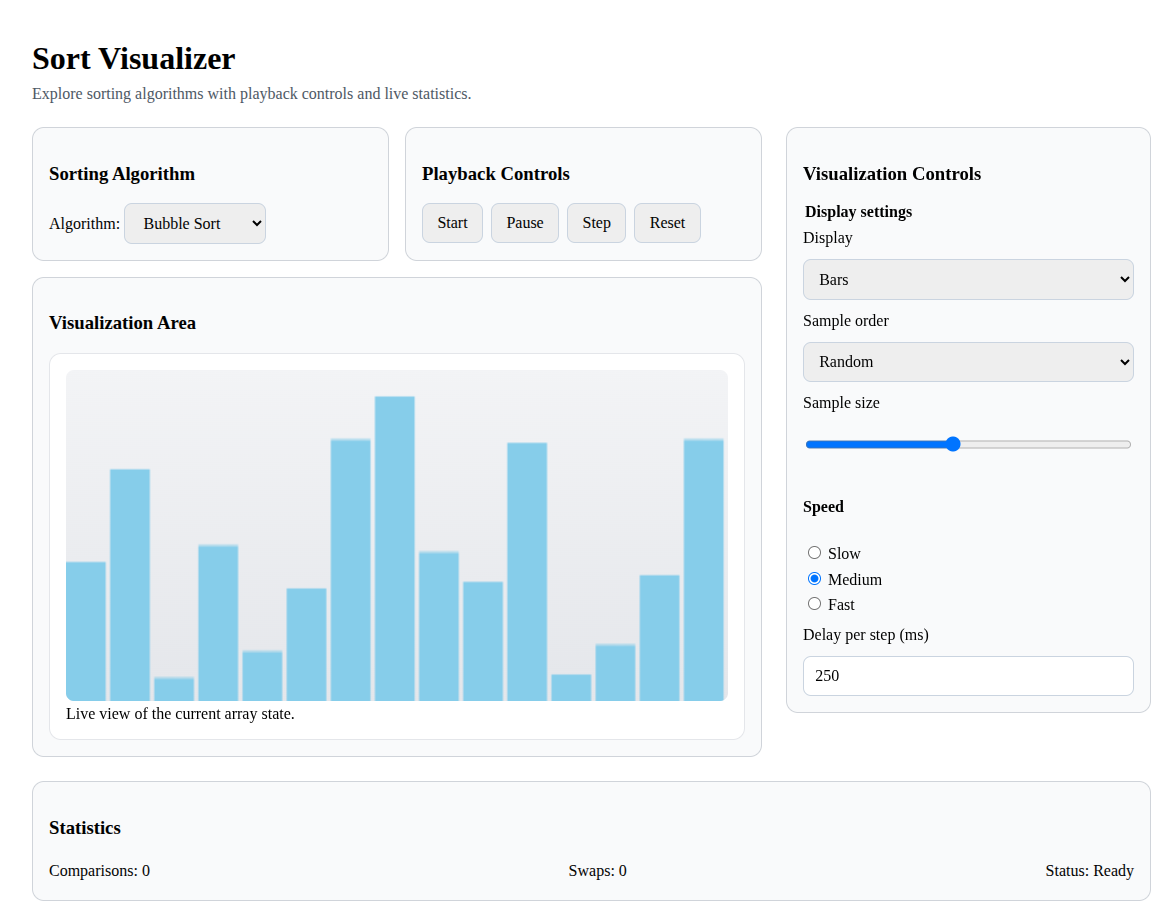
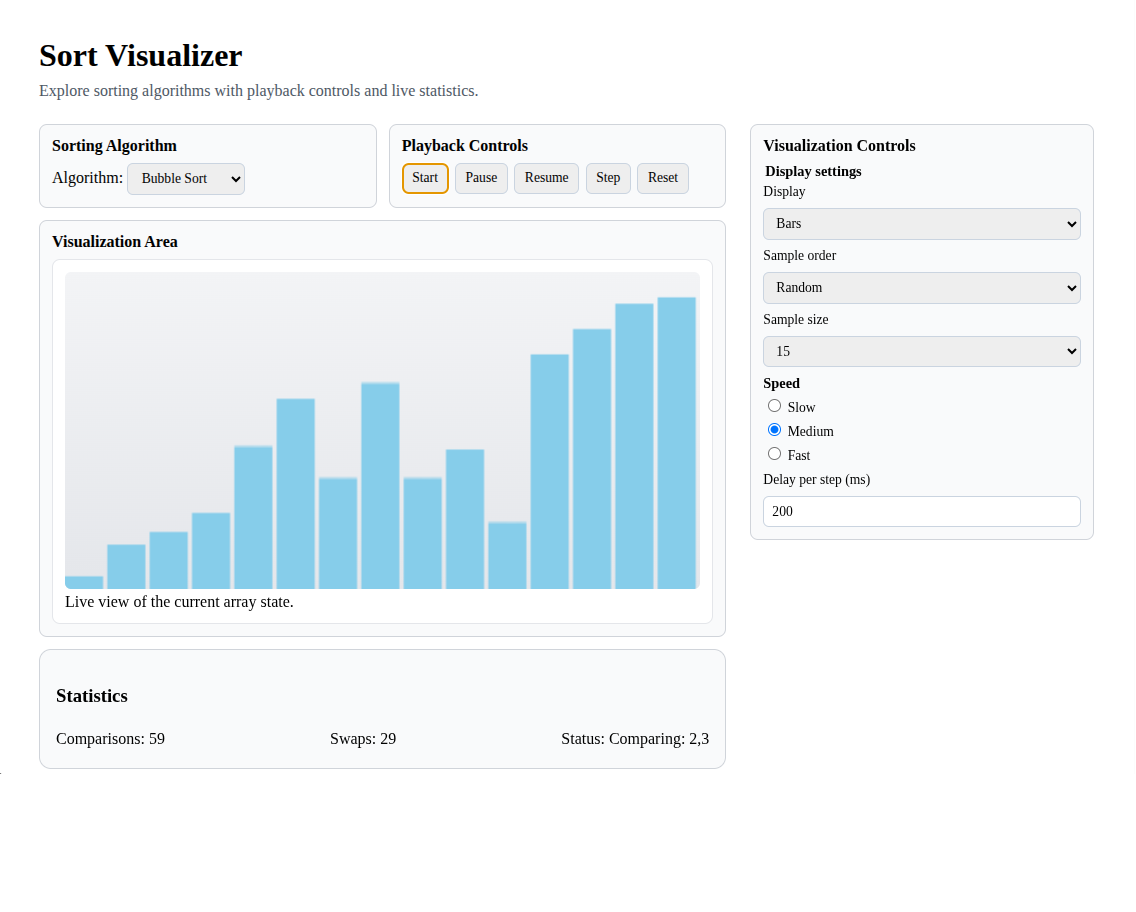
docs: updated README

diff --git a/src/views/Main.vue b/src/views/Main.vue
@@ -188,17 +188,16 @@ onMounted(() => {
     />
   </main>
 </template>
-
 <style scoped>
 .main-view {
   display: flex;
   flex-direction: column;
-  gap: 1rem;
+  gap: 0.75rem;
 }
 
 .controls-row {
   display: flex;
-  gap: 1rem;
+  gap: 0.75rem;
 }
 
 .controls-row .panel {
@@ -207,43 +206,43 @@ onMounted(() => {
 
 .panel {
   border: 1px solid #d1d5db;
-  border-radius: 12px;
-  padding: 1rem;
+  border-radius: 8px;
+  padding: 0.75rem;
   background: #f9fafb;
 }
 
-.panel h2 {
-  margin: 0 0 0.75rem;
-  font-size: 1.1rem;
+.panel h3 {
+  margin: 0 0 0.5rem;
+  font-size: 1rem;
 }
 
 .button-group {
   display: flex;
   flex-wrap: wrap;
-  gap: 0.5rem;
+  gap: 0.4rem;
 }
 
 button,
 select {
-  padding: 0.6rem 0.9rem;
+  padding: 0.4rem 0.6rem;
   border: 1px solid #cbd5e1;
-  border-radius: 8px;
+  border-radius: 6px;
   font: inherit;
+  font-size: 0.85rem;
 }
 
 .canvas-card {
   margin: 0;
   border: 1px solid #e5e7eb;
-  border-radius: 12px;
-  padding: 1rem;
+  border-radius: 8px;
+  padding: 0.75rem;
   background: #fff;
 }
 
 canvas {
   width: 100%;
-  min-height: 260px;
-  border-radius: 8px;
+  min-height: 200px;
+  border-radius: 6px;
   background: linear-gradient(180deg, #f3f4f6 0%, #e5e7eb 100%);
 }
 </style>
- 

diff --git a/src/views/VisualizationControl.vue b/src/views/VisualizationControl.vue
@@ -55,7 +55,6 @@ const { settings } = useVisualizationSettings();
     </section>
   </aside>
 </template>
-
 <style scoped>
 .sidebar {
   display: flex;
@@ -64,20 +63,20 @@ const { settings } = useVisualizationSettings();
 
 .panel {
   border: 1px solid #d1d5db;
-  border-radius: 12px;
-  padding: 1rem;
+  border-radius: 8px;
+  padding: 0.75rem;
   background: #f9fafb;
 }
 
-.panel h2 {
-  margin: 0 0 0.75rem;
-  font-size: 1.1rem;
+.panel h3 {
+  margin: 0 0 0.5rem;
+  font-size: 1rem;
 }
 
 fieldset {
   display: flex;
   flex-direction: column;
-  gap: 0.75rem;
+  gap: 0.5rem;
   border: none;
   padding: 0;
   margin: 0;
@@ -85,29 +84,32 @@ fieldset {
 
 legend {
   font-weight: 600;
-  margin-bottom: 0.5rem;
+  margin-bottom: 0.25rem;
+  font-size: 0.9rem;
 }
 
 label {
   font-weight: 500;
+  font-size: 0.85rem;
 }
 
 input,
 select {
-  padding: 0.6rem 0.7rem;
+  padding: 0.4rem 0.5rem;
   border: 1px solid #cbd5e1;
-  border-radius: 8px;
+  border-radius: 6px;
   font: inherit;
+  font-size: 0.85rem;
 }
 
 .speed-group {
   display: flex;
   flex-direction: column;
-  gap: 0.35rem;
+  gap: 0.25rem;
 }
 
-.speed-group h3 {
+.speed-group h4 {
   margin: 0;
-  font-size: 1rem;
+  font-size: 0.9rem;
 }
 </style>

diff --git a/README.md b/README.md
@@ -41,7 +41,7 @@ This is your end-to-end skeleton. Everything else in the challenge will hang off
 
 Testing: Run your tool and watch the array sort itself. The bars should start in random order and finish in ascending order. Try a few different sample sizes (10, 30, 50) and confirm the layout still looks right. If your bars overflow the screen or look squashed, adjust your scaling so the tallest bar uses most of the available height.
 
-THIS IS MY STEP1:
+THIS IS MY IMPLEMENTATION AT THE MOMENT (coverse STEP1 and more):
 ![implementatiion of step1](step1.png)
 
 Step 2
